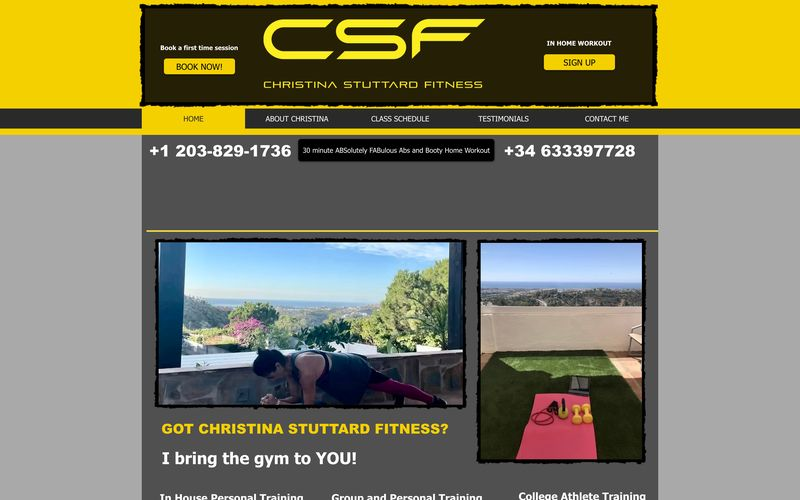
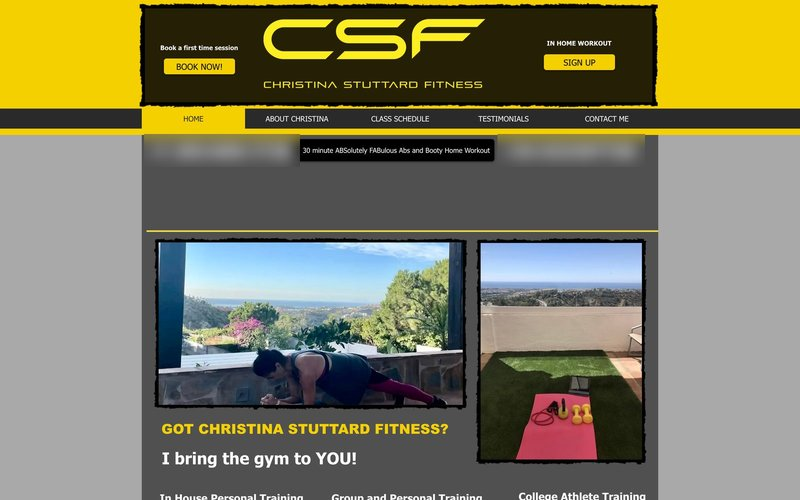
Add Christina Stuttard Fitness case study and blur old contact details
New independent case study from Maya's notes, with the old site,
V1, V2 and the coded schedule as process images. Phone numbers and
email in the old-site screenshot are now blurred.

Claude-Session: https://claude.ai/code/session_01HmqHQn3oLGwcwxxBnTN99F

diff --git a/src/content/case-studies/07-christina-stuttard-fitness.md b/src/content/case-studies/07-christina-stuttard-fitness.md
@@ -1,0 +1,65 @@
+---
+order: 7
+independent: true
+visual: shot
+shot:
+  src: work-christina-stuttard-fitness
+  alt: The new Christina Stuttard Fitness homepage. A large headline reads "Workouts designed for you" over a photo of Christina holding a plank on a beach boardwalk, with a yellow "See how we can work together" button.
+  size: [1440, 898]
+cardMeta: Independent work · 2026
+cardTitle: A personal trainer's site that sounds like her
+cardLine: A seven-page booking site, cut to one warm page after a few text messages.
+eyebrow: Case study · Independent work · Christina Stuttard Fitness · 2026
+title: A personal trainer's site that sounds like her
+summary: My mum is a personal trainer with clients in the US, the UK and Spain. Her website dated from 2014. I redesigned and rebuilt it, and listening to her turned a sales and booking site into a warm, one-page calling card.
+overview:
+  - { label: My role, value: "Product designer and creative engineer. Discovery, client feedback, design direction and the front-end build." }
+  - { label: Client, value: "Christina Stuttard, a solo personal trainer and group fitness instructor." }
+  - { label: Timeline, value: "October 2026. Built in code, launch on her domain still to come." }
+  - { label: Tools, value: "Plain HTML, CSS and JavaScript, built with AI as my design and coding partner. Zoom and Otter for the feedback call." }
+visualCaption: The current homepage, built in code and not yet live.
+decisions:
+  - title: Listen before adding features
+    body: My first plan had seven pages, a booking button everywhere and a members area. Then Christina answered a few short questions by text. She wanted it warm and personal, pay as you go, no membership, and low-key about payments. It's a bio, not a shop. Most of the plan went.
+    chips: [Members area, Booking, Payments, Sign-up form]
+  - title: Confirm, don't persuade
+    body: On a recorded call she told me how clients find her. She meets someone and says "here's my website, take a look." So visitors arrive half-trusting her already. The page's job is to confirm who she is, what she offers, when classes run and how to say hello.
+  - title: Class times in your own time zone
+    body: Her clients live in three countries, and the US and Europe change their clocks on different dates. The schedule opens in the visitor's own zone, labelled with real zone names, and stays right all year. Prices are fixed in three currencies, so they never drift.
+    chips: [USA, UK, Spain]
+  - title: Throw away the version that worked
+    body: Version two ticked every box but still looked generated. Small labels over every heading, divider lines, slanted edges. I collected new references and started the visual design again, with big photos, clean type and much more restraint.
+gallery:
+  title: The process
+  intro: From the 2014 site to the version in code. Select any of them to see it full size. Photos from the original shoot by Moira Lynch Photography.
+  items:
+    - src: csf-before
+      size: [1600, 2433]
+      alt: The old Christina Stuttard Fitness website from 2014, with a large CSF logo on a dark banner, a grey nav bar, photos in heavy black frames and retired services like college athlete training. Contact details are blurred.
+      caption: Before. A 2014 site builder page with broken embeds, retired services and an old class schedule. Contact details blurred.
+    - src: csf-v1
+      size: [1440, 900]
+      alt: Version one of the homepage, with a bold uppercase headline "I bring the gym to you", a photo of Christina mid-jump, and buttons to book a first session and see class times.
+      caption: Version one. A typical fitness sales page, built on my own assumptions before I'd really listened.
+    - src: csf-v2
+      size: [1440, 900]
+      alt: Version two of the homepage, with a quote bar, a dark header over a full-width photo of Christina jumping, and a serif headline "Workouts designed for you".
+      caption: Version two, after the call. Her words and her structure, but a look I wasn't happy with.
+    - src: csf-v3-classes
+      size: [1600, 1830]
+      alt: The class schedule on a phone. Tabs for USA, UK and Spain, with UK selected and labelled BST, four class times from 11:30am, the price of 15 dollars, 12 pounds or 14 euros per class, and a "Message me to join" button.
+      caption: The class schedule on a phone, showing UK times. One message is the only way in.
+stats:
+  - { value: "1", label: page instead of seven }
+  - { value: "56", label: pieces of feedback logged and acted on }
+  - { value: "3", label: countries and time zones }
+impactTitle: Outcome
+impact: The new homepage is built in code and waiting for her domain. On the call, her first reaction on scrolling was "I like it." There's no launch or data yet. Next is a quick test with a few clients on their phones, an accessibility check, then launch.
+takeaway: Design for how people actually arrive.
+---
+
+Christina writes her own workouts and changes them all the time. Her clients love the variety. Most of them are between 30 and 60, many aren't very technical, and they mostly look at her site on a phone.
+
+Her old site was from 2014. It still listed services she'd retired, showed the wrong class times, sent people off to a quiet Patreon page and had blank spaces where videos used to be. She runs everything by text message, so anything she'd have to maintain was a risk.
+
+> The question: what does someone who's just met her need to see before they send a message?

diff --git a/src/content/independent.md b/src/content/independent.md
@@ -8,11 +8,12 @@ caseLink: See the process
 projects:
   - name: Christina Stuttard Fitness
     kind: Personal trainer · Spain and Zoom
-    line: My mum's personal training site was looking dated. I'm rebuilding it around her yellow and grey, her own words and her photos. It shows class times in each visitor's time zone, and every route ends in a message to her.
-    status: Design in progress
+    line: My mum's personal training site was from 2014. I'm rebuilding it around her lemon yellow, her own words and her photos. It shows class times in each visitor's time zone, and every route ends in a message to her.
+    status: Built, not live yet
+    caseSlug: christina-stuttard-fitness
     before:
       image: csf-before
-      alt: Christina's current website, with a large CSF logo on a dark banner, a grey nav bar, phone numbers in big text, and photos in heavy black frames on a grey background.
+      alt: Christina's old website, with a large CSF logo on a dark banner, a grey nav bar, blurred phone numbers, and photos in heavy black frames on a grey background.
     image: work-christina-stuttard-fitness
     alt: The Christina Stuttard Fitness homepage. A large headline reads "Workouts designed for you" over a photo of Christina holding a plank on a beach boardwalk, with a yellow "See how we can work together" button.
   - name: Timex Carriages
